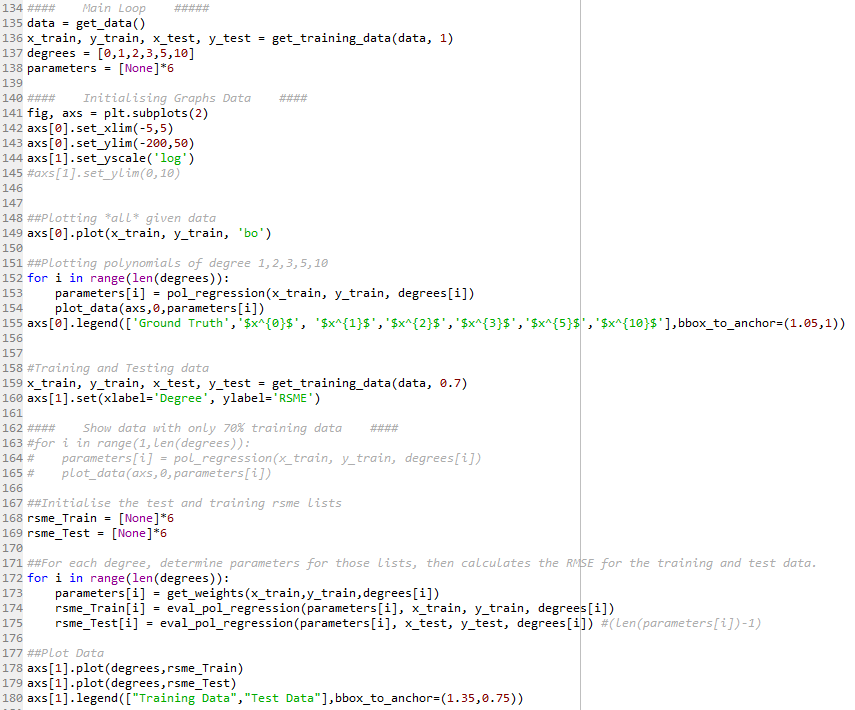
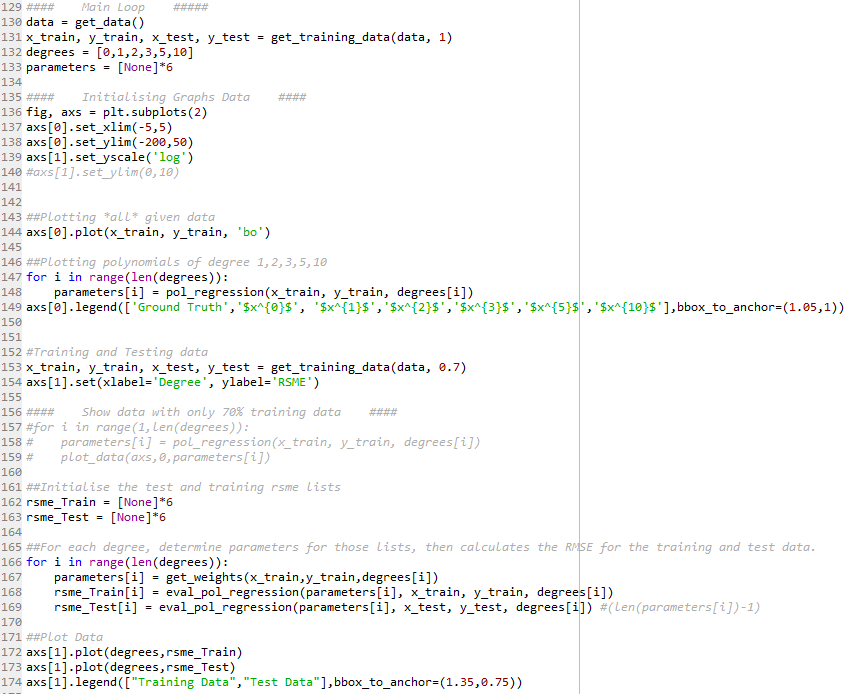
degree 0 fix

Changed region(s): [[0.0, 0.0, 1.0, 1.0]]

diff --git a/Assignment/Code/Task1.py b/Assignment/Code/Task1.py
@@ -29,14 +29,7 @@ def eval_pol_regression(parameters, x, y, degree):
     ##Squaring the residuals
     ##Finding the average
     ##Taking the square root of the result
-    
-    #ŷ is the predicted value of y. ie - the y based on the parameters given
-    yHat = 0
 
-    #Calculating predicted values for all of x
-
-    #for i in range(0, len(parameters)):                 #For each parameter:
-        #yHat += (parameters[i])*(x**i)                  #calculate ŷ = bi(x)^i
     
     xMatrix = get_poly_data_matrix(x,degree)
     #Calculate Root Mean Square Error
@@ -48,7 +41,7 @@ def eval_pol_regression(parameters, x, y, degree):
 ##Plot the Data
 def plot_data(axs, sX, para):
     #Get matrix of x coordinates based on x = -5 -> 5 (step 0.1).
-    if isinstance(para, np.float64):
+    if isinstance(para, np.float64): ##If degree = 0, then para has no length
         axs[sX].plot([-5,5],[para,para])
     else:
         xCoords = get_poly_data_matrix(np.arange(-5,5,0.1),len(para)-1)
@@ -59,14 +52,9 @@ def plot_data(axs, sX, para):
 
 ##Polynomial Regression
 def pol_regression(x_train, y_train, degree):
-    parameters = 0
-    ##Ensures degree is larger than 0 to avoid errors
     parameters = get_weights(x_train, y_train, degree)
-    Xtest = get_poly_data_matrix(x_train, degree)
-    ytest = Xtest.dot(parameters) #Dot product of X coord matrix against the weights
-    x_test, y_test = sort_data(x_train, ytest)      
-#    else:        
-#        plt.plot([-5,5],[0,0])
+    plot_data(axs,0,parameters)
+
     return parameters
 
 
@@ -158,7 +146,7 @@ axs[0].plot(x_train, y_train, 'bo')
 ##Plotting polynomials of degree 1,2,3,5,10
 for i in range(len(degrees)):
     parameters[i] = pol_regression(x_train, y_train, degrees[i])
-    plot_data(axs,0,parameters[i])
+    #plot_data(axs,0,parameters[i])
 axs[0].legend(['Ground Truth','$x^{0}$', '$x^{1}$','$x^{2}$','$x^{3}$','$x^{5}$','$x^{10}$'],bbox_to_anchor=(1.05,1))
 
 
